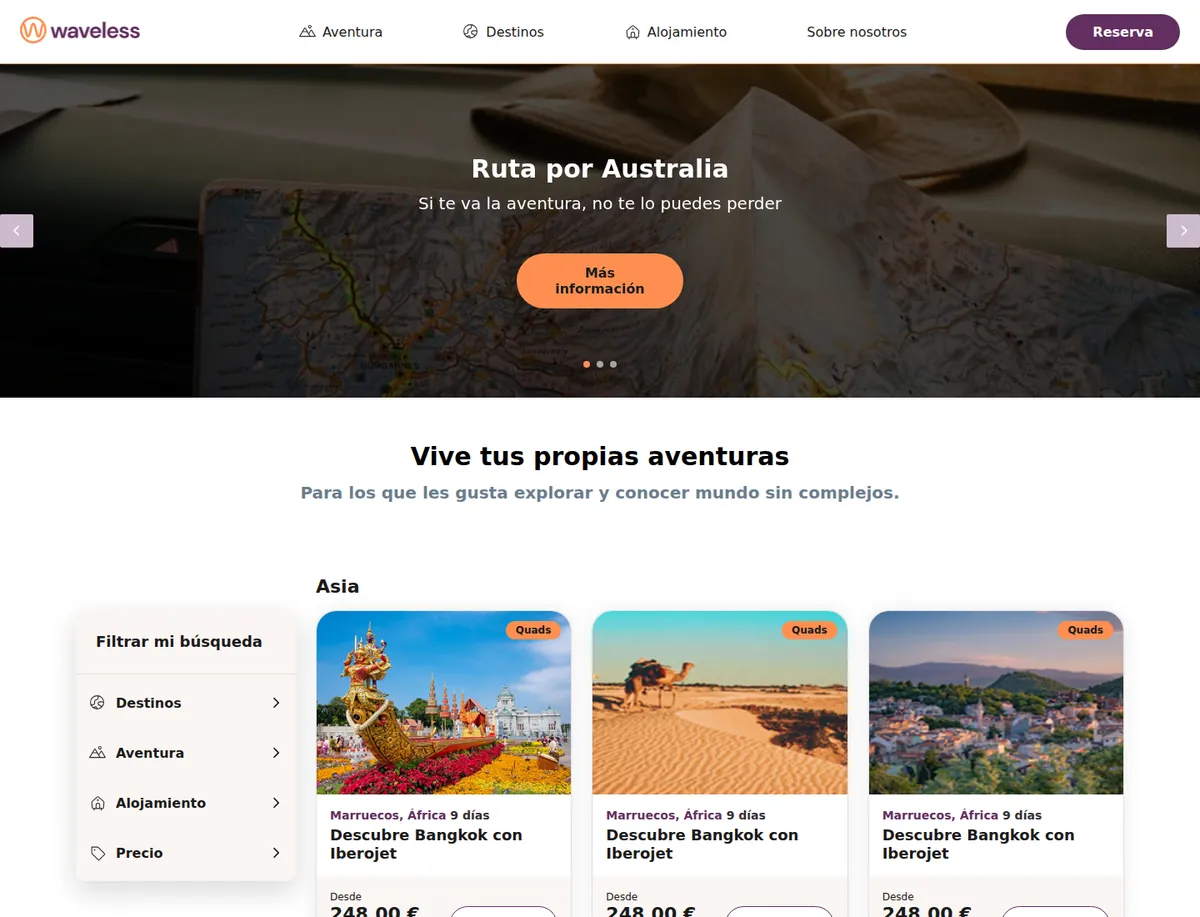
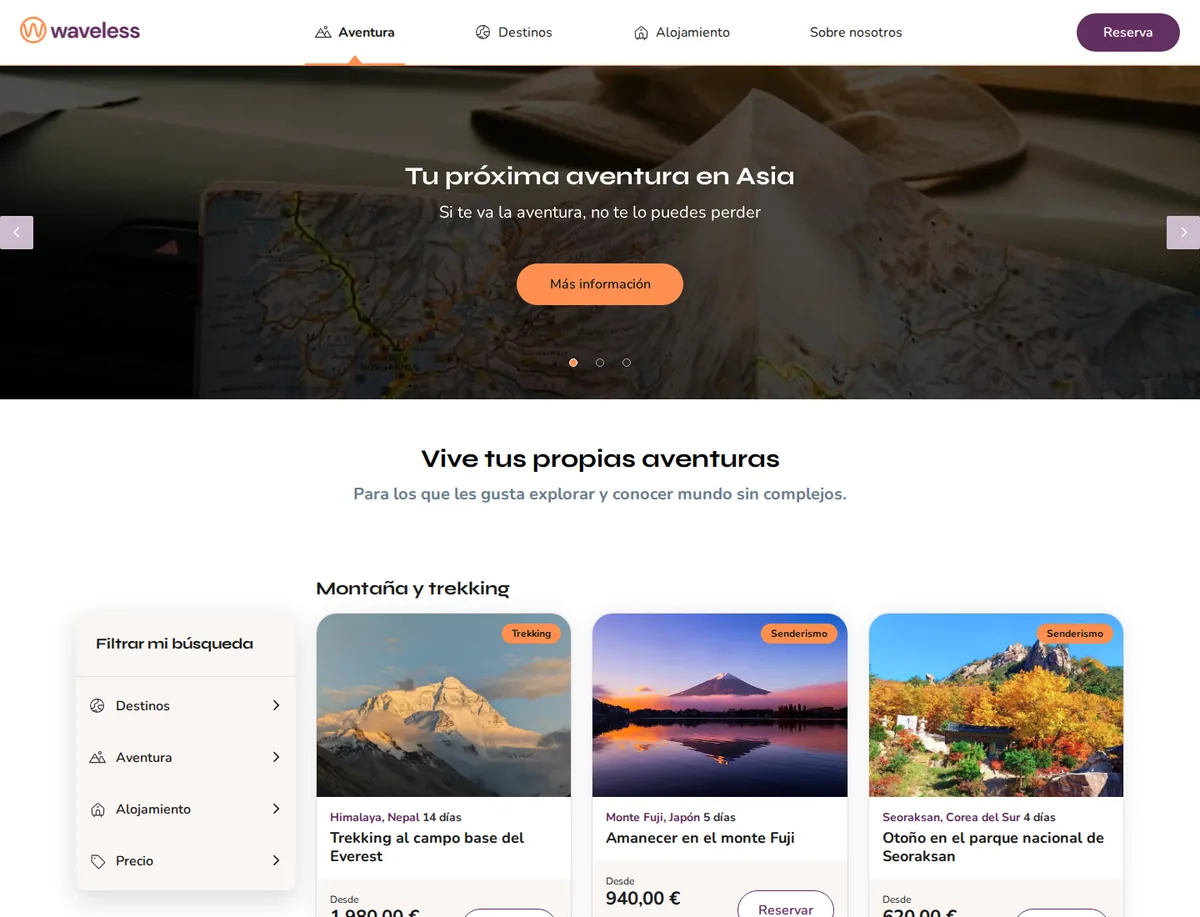
added new img for waveless project

diff --git a/src/app/data/projects.ts b/src/app/data/projects.ts
@@ -9,7 +9,7 @@ export interface Project {
 export const PROJECTS: Project[] = [
   {
     title: 'Waveless-web',
-    description: $localize`:@@project.waveless.description: Web de una agencia de viajes de aventura por Asia, construida como una app **Angular 20** con rutas, componentes reutilizables, accesibilidad y signals para todo el estado.`,
+    description: $localize`:@@project.waveless.description: Web de una agencia de viajes de aventura por Asia, construida como una app Angular 20 con rutas, componentes reutilizables, accesibilidad y signals para todo el estado.`,
     image: 'images/waveless.webp',
     tech: ['Angular', 'TypeScript', 'Sass', 'Responsive'],
     codeUrl: 'https://github.com/romerogarcia/Waveless-web',
@@ -18,7 +18,7 @@ export const PROJECTS: Project[] = [
     title: 'Star Wars Planets',
     description: $localize`:@@project.starwars.description:Web construida sobre la API de Star Wars. Tras iniciar sesión o registrarse, se pueden explorar y buscar los planetas de la saga.`,
     image: 'images/starwars.webp',
-    tech: ['React', 'JavaScript', 'SCSS', 'Bootstrap', 'API'],
+    tech: ['Angular', 'JavaScript', 'SCSS', 'Bootstrap', 'API'],
     codeUrl: 'https://github.com/romerogarcia/StarWars-Planets',
   },
   {
